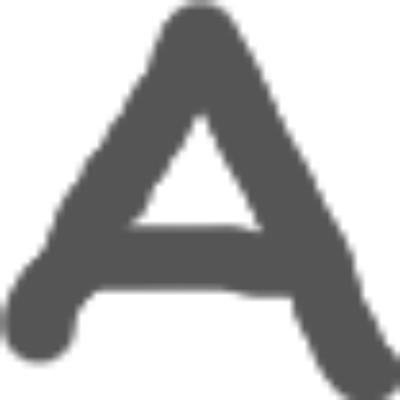
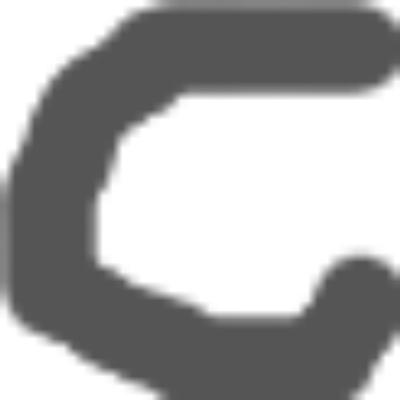
2014-04-17 KW
Kevin's changes from 4/17

diff --git a/Letter Recon/src/std/Main.java b/Letter Recon/src/std/Main.java
@@ -14,18 +14,24 @@ import ij.process.ByteProcessor;
 import ij.process.ImageProcessor;
 
 public class Main {
-
+	public static int grid[][] = new int[20][20];
 	public static void main(String[] args) {
 		/*
 		 * An opener is just a utility object to open images -- it could easily
 		 * be connected to an open dialog instead of a hard-coded file path
 		 */
+		for (int i=0;i<20;i++){
+			for (int j=0;j<20;j++){
+				grid[i][j]=0;
+			}
+			
+		}
 		Opener opener = new Opener();
 
 		/* An ImagePlus is an object that represents the loaded image */
 		//ImagePlus a = opener.openImage("images/A.png");
 		/* An ImagePlus is an object that represents the loaded image. IJ is the ImageJ application. */
-		ImagePlus image = IJ.openImage("images/A.png");
+		ImagePlus image = IJ.openImage("images/C.png");
 		/* display the image we're working with in its own window -- this also puts ImageJ's focus on this image, so that subsequent commands will run on this image. */
 		image.show();
 		
@@ -78,6 +84,13 @@ public class Main {
 		    BinaryProcessor bip = new BinaryProcessor(new ByteProcessor(croppedImage));
 		    bip.skeletonize();
 		    new ImagePlus("SkeletonizedImage", bip.getBufferedImage()).show();
+		    toGrid(bip);
+		    for (int i=0;i<20;i++){
+				for (int j=0;j<20;j++){
+					System.out.print(grid[i][j] + " ");
+				}
+				System.out.println();
+			}
 		  }
 	
 		
@@ -132,17 +145,16 @@ public class Main {
             
             int[] boundary =  {minY, maxY, minX, maxX, newWidth, newHeight};
             
-            return boundary;
-            
-            //IJ.run(imp, "Canvas Size...", "width="+newWidth+" height="+newHeight+" position=Top-Left zero"); 
-            //IJ.run(imp, "Canvas Size...", "width="+(newWidth-minX)+" height="+(newHeight-minY)+" position=Bottom-Right zero"); 
-            
-            /*IJ.write("New Width: "+newWidth); 
-            IJ.write("New Height: "+newHeight); 
-            
-            IJ.write("found min Y at: " + minY + "\n"); 
-            IJ.write("found max Y at: " + maxY + "\n"); 
-            IJ.write("found min X at: " + minX + "\n"); 
-            IJ.write("found max X at: " + maxX + "\n");*/ 
-} 
+            return boundary;           
+        } 
+		public static void toGrid(BinaryProcessor imp) { 
+			int unit=(int)(imp.getWidth()/20);
+			for (int i=0;i<imp.getWidth();i++){
+				for (int j=0;j<imp.getHeight();j++){
+					if (imp.getPixel(i, j)!=255){
+						grid[(int)(i/unit)][(int)(j/unit)]=1;
+					}
+				}
+			}
+		}
 }
